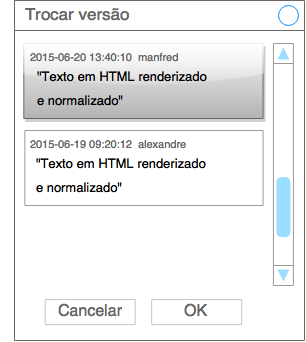
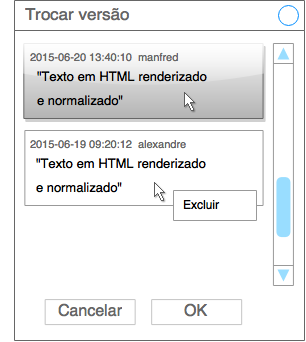
changing-version.png improved

Changed region(s): [[0.5, 0.5263, 0.7353, 0.6433], [0.8235, 0.5556, 0.8529, 0.6433], [0.5882, 0.2632, 0.6471, 0.3216]]

diff --git a/design/README.md b/design/README.md
@@ -35,6 +35,9 @@ The dialog for changing version:
 
 ![changing version](changing-version.png)
 
+- Clique de botão esquerdo seguido de OK escolhe a versão
+- Clique de botão direito abre menu de contexto com opção "Excluir"
+
 # Web minimalista, um estilo diferente
 
 Para o sistema ser extremamente simples e realmente muito barato, de tela única, não pode se responsabilizar por fluxos de configuração e gerência de dados. A figura de um administrador lida com dois arquivos JSON: um de configurações e outro de dados (que é renovado a cada semana).
